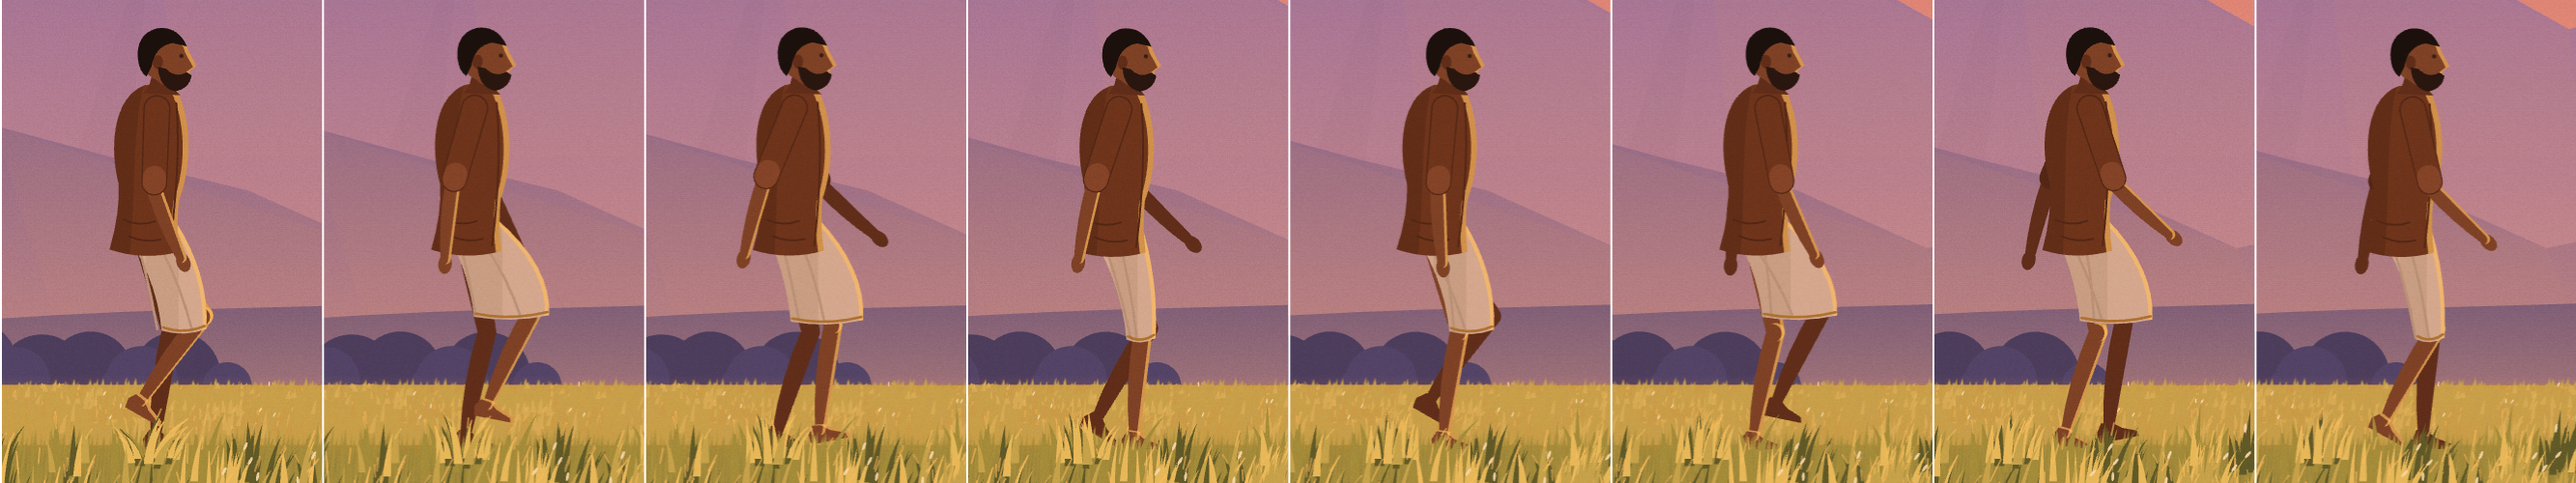
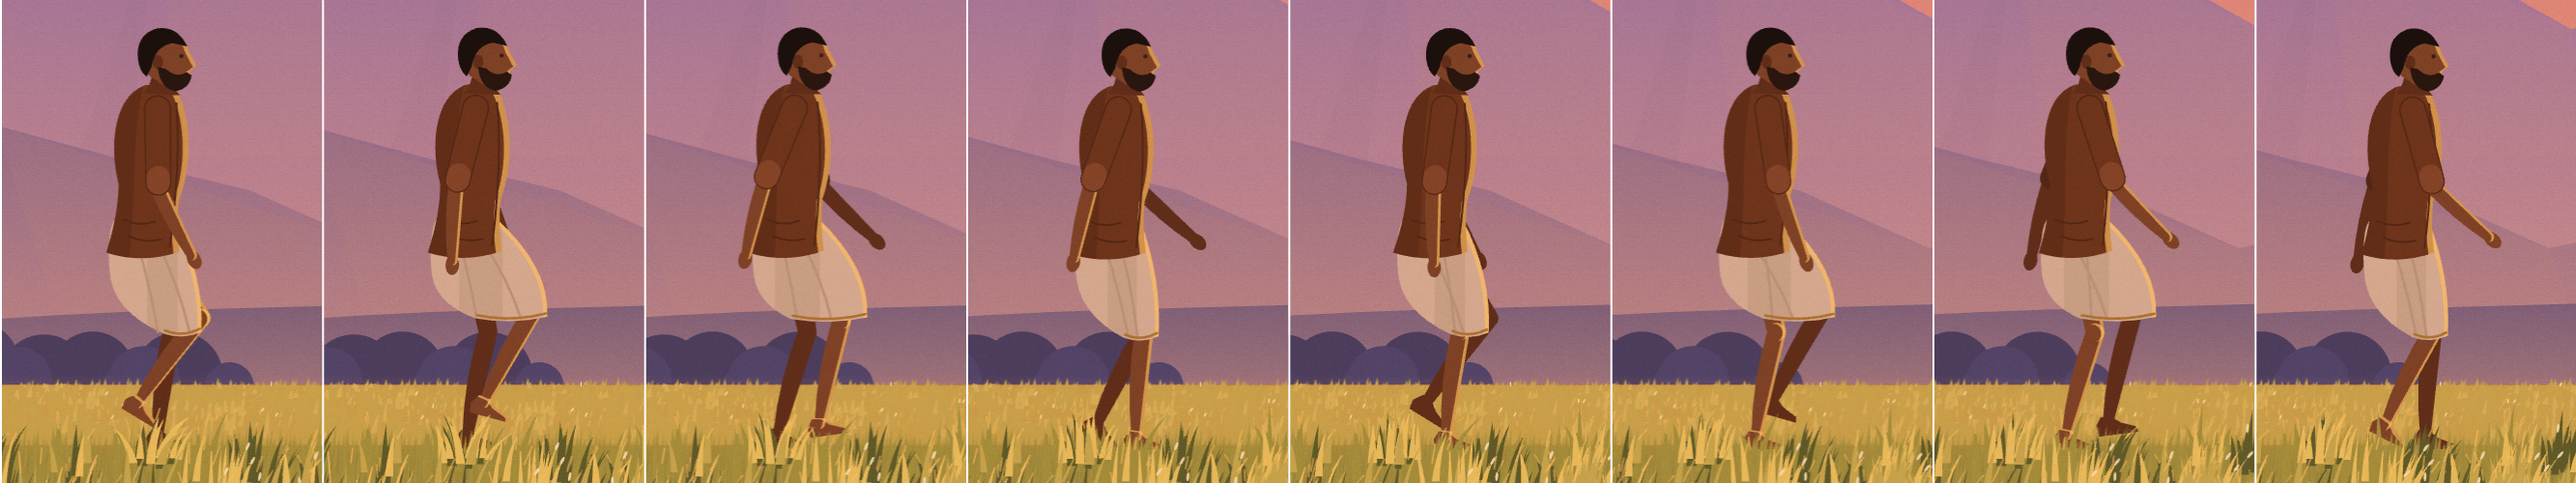
Give the man a seat: mundu rounds over the buttocks, shirt hem hangs over it

diff --git a/src/scene/character.js b/src/scene/character.js
@@ -301,12 +301,19 @@ export function drawCharacter(ctx, x, y, scale, pose, C) {
   const waist = HIP_Y - 8 + by;
   const hemY = m.hemY;
   const front = m.front, back = m.back;
+  // the cloth drapes over the seat: the back edge rounds out below the
+  // waist, a little further when the rear leg swings back
+  const rearKnee = Math.min(near.knee.x, far.knee.x);
+  const seat = { x: -23 + clamp(rearKnee * 0.06, -1.5, 1), y: HIP_Y + 23 + by };
   const munduBuild = () => {
     ctx.moveTo(-18, waist);
     ctx.lineTo(18, waist);
     ctx.quadraticCurveTo(front + 2, (waist + hemY) / 2, front, hemY);
     ctx.quadraticCurveTo((front + back) / 2, hemY + 5, back, hemY + 1);
-    ctx.quadraticCurveTo(back - 3, (waist + hemY) / 2, -18, waist);
+    // the cloth hangs from the seat to the hem, rounds over the seat and
+    // runs up (under the shirt) to the waist
+    ctx.quadraticCurveTo(seat.x + 0.5, (seat.y + hemY) / 2 + 6, seat.x, seat.y);
+    ctx.bezierCurveTo(seat.x - 1.2, seat.y - 12, -22, waist + 2, -18, waist);
     ctx.closePath();
   };
   fillPath(ctx, C.mundu, munduBuild);
@@ -340,8 +347,8 @@ export function drawCharacter(ctx, x, y, scale, pose, C) {
   const torsoBuild = () => {
     ctx.moveTo(-9, -224 + by);
     ctx.bezierCurveTo(-24, -214 + by, -25, -186 + by, -18, -164 + by);
-    ctx.quadraticCurveTo(-16, -146 + by, -21 - tail, -123 + by);
-    ctx.quadraticCurveTo(0, -117 + by, 22, -124 + by);
+    ctx.quadraticCurveTo(-17, -146 + by, -23 - tail, -121 + by); // hangs over the seat
+    ctx.quadraticCurveTo(-1, -115 + by, 22, -124 + by);
     ctx.quadraticCurveTo(19, -140 + by, 20, -156 + by);
     ctx.bezierCurveTo(27, -178 + by, 25, -206 + by, 15, -224 + by);
     ctx.quadraticCurveTo(3, -232 + by, -9, -224 + by);
